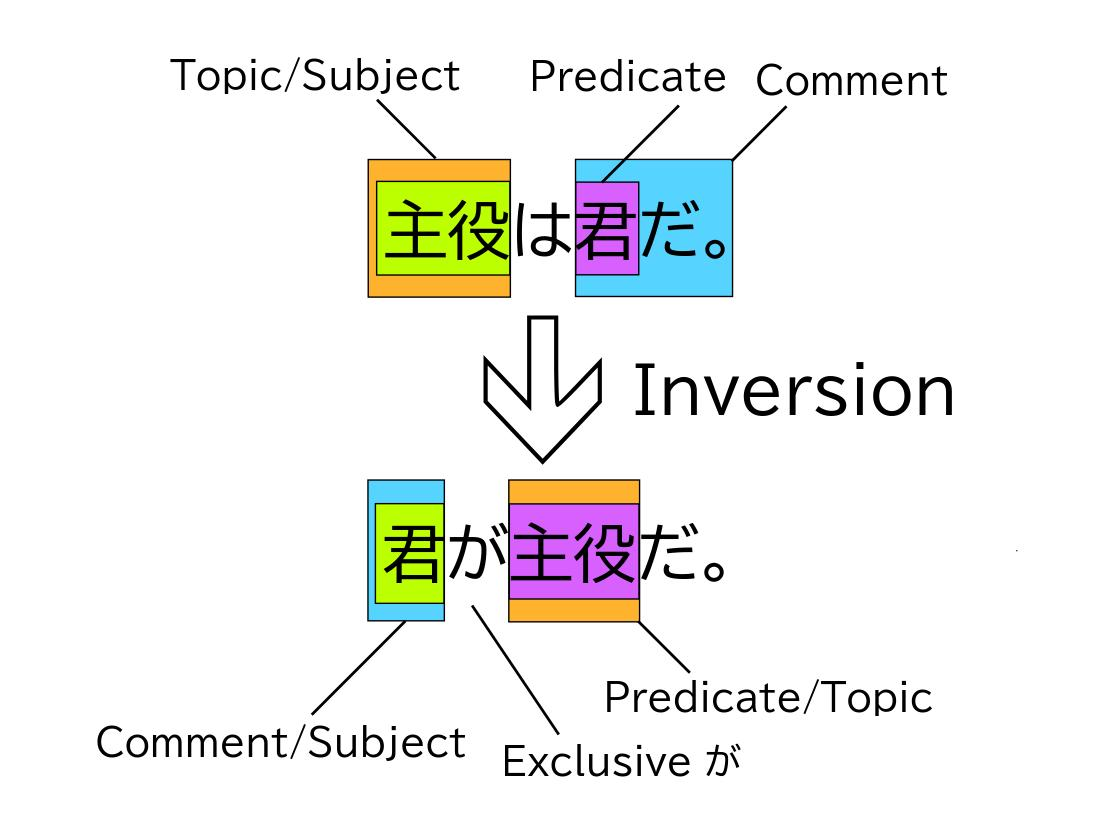
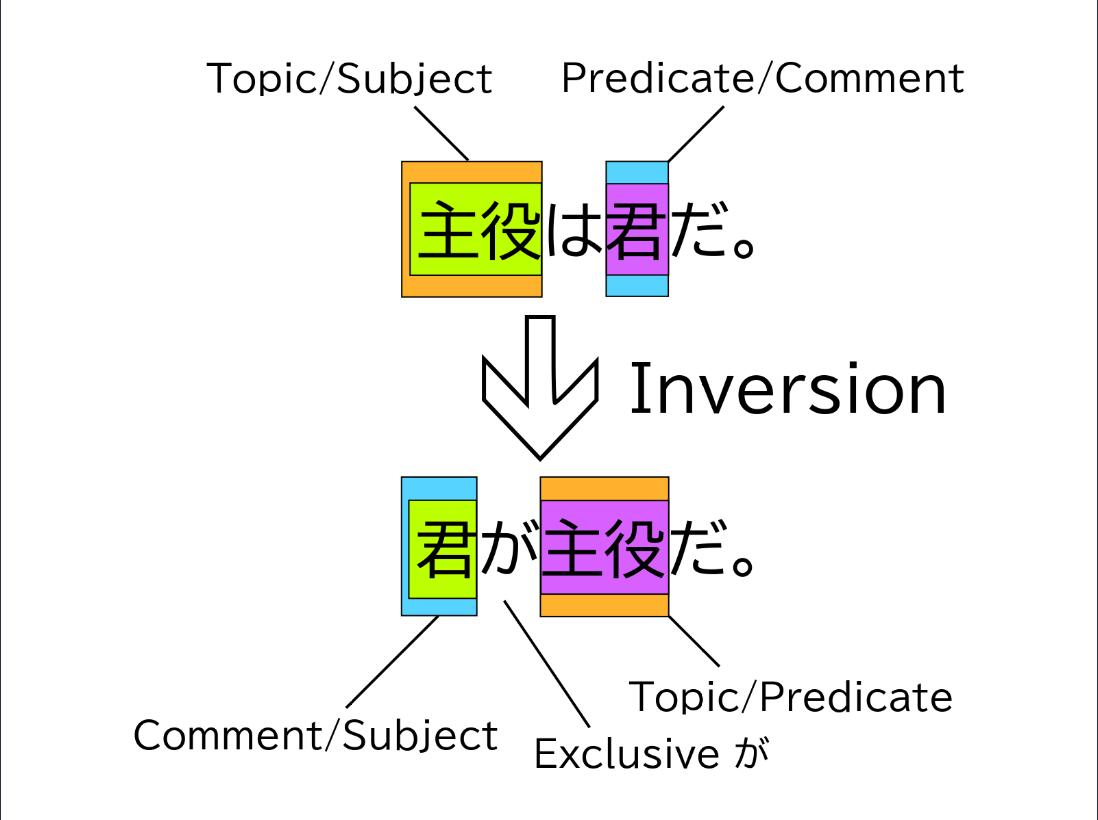
finished ppos

Changed region(s): [[0.0619, 0.061, 0.898, 0.9451]]

diff --git a/_sass/_base.scss b/_sass/_base.scss
@@ -60,6 +60,27 @@ sup {
    text-decoration: none !important;
 }
 
+/*
+
+ruby {
+  position: relative; 
+  font-size: 1em; 
+}
+
+rt {
+  font-size: 0.6em; 
+  position: absolute;
+  top: -1.2em; 
+  left: 50%; 
+  transform: translateX(-50%); 
+}
+
+rp {
+  font-size: 0; 
+}
+
+*/
+
 ul {
   padding-left: 0.5em;
 }

diff --git a/_posts/2024-07-20-wa-vs-ga-1.md b/_posts/2024-07-20-wa-vs-ga-1.md
@@ -126,7 +126,7 @@ Something else worth pointing out is that exclusive が can't mark objects, but 
 
 # は Structures
 
-## <a name="chichi" style="text-decoration: none;">The 「父はこの本を買ってくれた。」 Structure
+## <a name="chichi" style="text-decoration: none;">The「父はこの本を買ってくれた。」Structure
 
 The first structure we'll be learning about is the simplest of all the は structures. It's what we get when we topicalize a **case-marked word**.
 
@@ -134,20 +134,20 @@ The following diagram shows the topicalization of the subject 父 in the clause 
 
 ![Diagram showing topicalization of 父 in the clause 父がこの本を買ってくれた(こと)](assets/img/chichi1.jpg)
 
-(The こと is here to represent that this is not being interpreted as a complete sentence, but a clause.)
+The こと is here to represent that this part isn't being interpreted as a complete sentence, but as a precursor to the sentence.
 
 Remember that は can also mark objects, which are generally marked by を. The object is topicalized, and は replaces を. Then the topic is moved to the beginning of the sentence. Just like the subject, the object doesn't stop being an object when it's topicalized. The following diagram shows the topicalization of the object この本 in the clause 「父がこの本を買ってくれた(こと)」. This leads to the sentence 「この本は父が買ってくれた。」
 
 ![Diagram showing topicalization of この本 in the clause 父がこの本を買ってくれた(こと)](assets/img/chichi2.jpg)
 
 
-## <a name="zou" style="text-decoration: none;">The 「象は鼻が長い。」 Structure
+## <a name="zou" style="text-decoration: none;">The「象は鼻が長い。」Structure
 
-「象は鼻が長い。」 is a famous sentence in discussions of Japanese grammar because of linguist Akira Mikami. In 1960, Mikami published 『象ハ鼻ガ長イナア！』, in which he argued that this sentence has no subject and advocated for the dismissal of the idea of "subject" in Japanese. We'll subscribe to Mikami's interpretation of the sentence but keep the idea of the subject intact.
+The sentence「象は鼻が長い。」is famous in discussions of Japanese grammar because of linguist Akira Mikami. In 1960, Mikami published『象ハ鼻ガ長イナア！』, in which he argued that this sentence has no subject and advocated for the dismissal of the idea of "subject" in Japanese. We'll subscribe to Mikami's interpretation of the sentence but keep the idea of the subject intact.
 
-According to Mikami's view, 「象は鼻が長い。」 is a sentence formed from the clause 「象の鼻が長い(こと)」 by topicalizing the modifier 象の. **Modifier** (修飾語) is a generic term for anything that modifies the meaning of something in the sentence. It can be an い-adjective, a な-adjective or something marked by 「～の」.[^2]  But in this structure, the modifier will always be a `noun` + `の`. 
+According to Mikami's view,「象は鼻が長い。」is a sentence formed from the precursor「象の鼻が長い(こと)」by topicalizing the modifier 象の. **Modifier** (修飾語) is a generic term for anything that modifies the meaning of something in the sentence. It can be an い-adjective, a な-adjective or something marked by「～の」.[^2]  But in this structure, the modifier will always be a `noun` + `の`. 
 
-Thus, the 「象は鼻が長い。」 structure is just another way of topicalizing a portion of existing sentences/clauses. The noun being topicalized in this structure is **the modifier of a case-marked word**.
+Thus, the「象は鼻が長い。」structure is just another way of topicalizing a portion of existing sentences/clauses. The noun being topicalized in this structure is **the modifier of a case-marked word**.
 
 [^2]: There are other types of modifiers in Japanese, but I believe these are the only types that fit in our structures.
 
@@ -155,27 +155,25 @@ Thus, the 「象は鼻が長い。」 structure is just another way of topicaliz
 
 Notice that the が in this structure is not exclusive が. We are simply stating that elephants "have long trunks," not specifying what part of elephants is long.
 
-// Another important thing to note about the 「象は鼻が長い。」 structure is that it's very common for the predicate to express a **state** or **quality** of the topic instead of an **action**.
+Another important thing to note about the「象は鼻が長い。」structure is that it's very common for the comment to express a **state** or **quality** of the topic instead of an **action**.
 
-Sentences that derive from topicalization of the modifier「～の」 in 「～の～を...」 can also be grouped into the 「象は鼻が長い。」 structure. These sentences take predicates that express actions often.
+Sentences that derive from topicalization of the modifier「～の」in「～の～を...」can also be grouped into the「象は鼻が長い。」structure. These sentences take comments that express actions often.
 
-## <a name="kaki" style="text-decoration: none;">The 「かき料理は広島が本場だ。」 Structure
+## <a name="kaki" style="text-decoration: none;">The「かき料理は広島が本場だ。」Structure
 
-At first glance, this sentence seems to fit into the 「象は鼻が長い。」 structure we just saw because of the 「～は～が...」 pattern. However, we can't work backwards to find the untopicalized clause by just replacing 「～は～が...」 with 「～の～が...」 like we did with「象は鼻が長い。」 
+At first glance, this sentence seems to fit into the 「象は鼻が長い。」 structure we just saw because of the「～は～が...」pattern. However, we can't work backwards to find the untopicalized clause by just replacing「～は～が...」with「～の～が...」like we did with「象は鼻が長い。」
 
 If we try anyway, we get <span style="color: #ff0040">「かき料理の広島が本場(であること)」</span>, which makes no sense.
 
-「かき料理は広島が本場だ。」 is actually derived from <span style="color: #a5fc67">「広島がかき料理の本場(であること)」</span>. In this structure, the noun being topicalized is the **modifier of the predicate**. [^3] The predicate of this structure will always be a noun.
+「かき料理は広島が本場だ。」is actually derived from <span style="color: #a5fc67">「広島がかき料理の本場(であること)」</span>. In this structure, the noun being topicalized is the **modifier of the predicate**. [^3] The predicate of this structure will always be a noun.
 
 ![Diagram showing topicalization of かき料理 in the clause 広島がかき料理の本場(であること)](assets/img/kaki.jpg)
 
-[^3]: I debated labeling the topic in this chart and the next one as "topic" instead of "topic/subject". Although it is technically possible to construe the topic in this structure as a subject, in practice this is irrelevant. In the model of generative grammar that Noda accepts, 「かき料理は広島が本場だ。」 passes through the stage 「かき料理が広島が本場(であること)」, and 「辞書は新しいのがいい。」 passes through the stage 「辞書が新しいのがいい(こと)」, but Noda says that these are highly unstable stages compared to the double subject stages in the other structures. They are awkward and you probably won't see them often.
+[^3]: I debated labeling the topic in this chart and the next one as "topic" instead of "topic/subject". Although it is technically possible to construe the topic in this structure as a subject, in practice this is irrelevant. In the model of generative grammar that Noda accepts,「かき料理は広島が本場だ。」passes through the stage「かき料理が広島が本場(であること)」, and「辞書は新しいのがいい。」passes through the stage「辞書が新しいのがいい(こと)」, but Noda says that these are highly unstable stages compared to the double subject stages in the other structures. They are awkward and you probably won't see them often.
 
 The が in this structure is exclusive が. This is a major difference between this structure and the 「象は鼻が長い。」 structure. We're specifying that it's Hiroshima, not any other place like Sendai or Hamamatsu, that's famous for its oyster dishes. 
 
-Because of this, it's possible to invert the sentence 「かき料理は広島が本場だ。」 into 「かき料理の本場は広島だ。」, but inverting the sentence 「象は鼻が長い。」into ×「象が長いのは鼻だ。」 is awkward. See [Specification vs. Supposition](#spec-sup) for clarification on why this happens. 「象は鼻が長い。」is a specification sentence, and 「かき料理は広島が本場だ。」is a supposition sentence.
-
-## <a name="jisho" style="text-decoration: none;">The 「辞書は新しいのがいい。」 Structure
+## <a name="jisho" style="text-decoration: none;">The「辞書は新しいのがいい。」Structure
 
 Here's another structure that fits into the 「～は～が...」 pattern. In the sentence 「辞書は新しいのがいい。」, the modifier is 新しい, and the noun that was topicalized is 辞書. To derive this sentence from its original clause, we topicalize its **subject**, and the modifier of the subject becomes the subject in the new comment.
 
@@ -189,7 +187,7 @@ The parallel-type sentence of this structure, on the other hand, doesn't use exc
 
 > 全国製麺連が調べた一人当り麺類消費量の全国平均は、うどんが年間1.9キロ、ラーメン類が2.8キロ、そばが0.6キロ。
 
-## <a name="hana" style="text-decoration: none;">The 「花が咲くのは7月ごろだ。」 Structure
+## <a name="hana" style="text-decoration: none;">The「花が咲くのは7月ごろだ。」Structure
 
 What sets this structure apart from all the other ones we've seen so far is that the topic in this one is a **clause**. 
 
@@ -199,9 +197,9 @@ The function of this sentence is that the predicate (7月ごろ) is emphasized. 
 
 The "Related to the Clause" part of the chart is usually some kind of word/phrase that expresses the reason or time for whatever is in the clause. It can also be a subject marked by が.
 
-Notice that because we can't put は directly after 花が咲く, we have to nominalize the clause first with の. This also happened with the sentence 「辞書は新しいのがいい。」. Common nominalizers include の, もの, 人, and ところ.
+Notice that because we can't put は directly after 花が咲く, we have to nominalize the clause first with の. This also happens with the sentence 「辞書は新しいのがいい。」. Common nominalizers include の, もの, 人, and ところ.
 
-## <a name="nioi" style="text-decoration: none;">The 「このにおいはガスが漏れてるよ。」 Structure
+## <a name="nioi" style="text-decoration: none;">The「このにおいはガスが漏れてるよ。」Structure
 
 This structure is the rarest one of all we've seen so far. In fact, some linguists consider it ungrammatical. But as you will see later, these sentences have legitimate functions. We can't construct a topicalization chart for this one, so instead, here's a primer on the three major types of this structure you will encounter.
 
@@ -209,13 +207,13 @@ This structure is the rarest one of all we've seen so far. In fact, some linguis
 
 Sometimes, we cannot reduce a sentence to its basic case marker structure because some portion of the sentence has been repeated before and after は, making it redundant. An example of this is:
 
-> 500円硬貨の両替は、左側5番の機械で両替してください。
+> 500円硬貨の両替は、左側5番の機械で両替してください。<br>*To exchange 500 yen coins, please exchange them at machine number 5 to your left.*
 
 The redundant portion of this sentence is 両替. This sentence is an overlapping of the two following sentences:
 
-> 500円硬貨の両替は、左側5番の機械でしてください。
+> 500円硬貨の両替は、左側5番の機械でしてください。<br>*To exchange 500 yen coins, please refer to machine number 5 to your left.*
 
-> 500円硬貨は、左側5番の機械で両替してください。
+> 500円硬貨は、左側5番の機械で両替してください。<br>*As for 500 yen coins, please exchange them at machine number 5 to your left.*
 
 By repeating the redundant portion, we can tell that the speaker may have been trying to make their message clearer.
 
@@ -223,11 +221,11 @@ By repeating the redundant portion, we can tell that the speaker may have been t
 
 Another reason we might not be able to reduce a sentence is because some portion of the sentence has been left out.
 
-> いまのうちの会社のいいところは、雰囲気が自由なんですね。
+> いまのうちの会社のいいところは、雰囲気が自由なんですね。<br>*What's great about our company is it's easygoing.*
 
 This sentence would be typical if we instead structured it like so:
 
-> いまのうちの会社のいいところは、雰囲気が自由なことなんですね。
+> いまのうちの会社のいいところは、雰囲気が自由なことなんですね。<br>*What's great about our company is that it's easygoing.*
 
 This type of sentence occurs often in spoken Japanese. 
 
@@ -235,13 +233,13 @@ This type of sentence occurs often in spoken Japanese.
 
 Sentences with a predicate that don't semantically serve as an exact explanation of the topic fall into this category.
 
-> 作り方は、材料を弱火で1時間ほど煮込みます。
+> 作り方は、材料を弱火で1時間ほど煮込みます。<br>*As for its recipe, simmer the ingredients on low heat for one hour.*
 
 The topic, 作り方, only serves as a rough "headline" for the entire sentence that follows it. It does not function as a subject in any capacity.
 
 # が Structures
 
-## <a name="fuji" style="text-decoration: none;">The 「富士山が見えるよ。」 Structure: Topicless Sentences
+## <a name="fuji" style="text-decoration: none;">The「富士山が見えるよ。」Structure: Topicless Sentences
 
 The 「富士山が見えるよ。」 structure is the only one we'll introduce that does not feature any sort of topic at all in its basic structure. Naturally, all sentences you'll see here will have **subject-marking が**.
 
@@ -253,31 +251,23 @@ There are three broad categories that sentences of this structure fall under.
 
 A sentence fits into this category when it describes something that the speaker can directly see or percieve. These sentences appear often in spoken Japanese.
 
-> 何か音が聞こえるわ。耳を澄ませて!
-
-> *I hear something. Listen closely!* - (村上春樹 『世界の終りとハードボイルド・ワンダーランド』 p.332)
+> 何か音が聞こえるわ。耳を澄ませて!<br>*I hear something. Listen closely!* - (村上春樹 『世界の終りとハードボイルド・ワンダーランド』 p.332)
 
 Sentences that describe perceptible events that will happen very soon also fall into this category.
 
-> いいか...今...血管がふさがる
-
-> *Listen... his veins will constrict soon...* - (新井素子 『...絶句(上)」』p.407)
+> いいか...今...血管がふさがる<br>*Listen... his veins will constrict soon...* - (新井素子 『...絶句(上)」』p.407)
 
 ### Descriptions of Events
 
 A sentence fits into this category when it describes an event that the speaker cannot directly see or percieve. This may be something that happened in the past or something that is happening right now the speaker can't percieve. These sentences appear often in written Japanese.
 
-> きのう合格発表があった。
-
-> *The exam results were announced yesterday.*
+> きのう合格発表があった。<br>*The exam results were announced yesterday.*
 
 ### Descriptions of Consequences
 
 A sentence fits into this category when it describes something that will happen if some other condition is fulfilled.
 
-> ボタンを押すと、音が出る。
-
-> *A sound will play when you press the button.*
+> ボタンを押すと、音が出る。<br>*A sound will play when you press the button.*
 
 ### Here's The Twist...
 
@@ -285,15 +275,17 @@ There is a caveat to this categorization system. **Just because a sentence fits 
 
 For instructions on when to use the topic, refer to [Does the Clause Have a Topic?](#potpres).
 
-## <a name="kimi" style="text-decoration: none;">The 「君が主役だ。」 Structure: Unmarked Topic and Exclusive が
+## <a name="kimi" style="text-decoration: none;">The「君が主役だ。」Structure: Inversion and Exclusive が
 
-The sentence 「君が主役だ。」has no topic-marking は, but it'd be inaccurate to say that it has no topic. The topic here is actually the predicate, 主役. This is what we call an **unmarked topic**. This property of the sentence comes from the fact that it uses **exclusive が**, a different form of が from the subject-marking が we saw in the 「富士山が見えるよ。」 structure. This sentence has the simplest possible structure for any sentence that uses exclusive が.
+The sentence 「君が主役だ。」has no topic-marking は, but it'd be inaccurate to say that it has no topic. The topic here is actually the predicate, 主役. This is what we call an **inverted sentence**. This property of the sentence comes from the fact that it uses **exclusive が**, a different form of が from the subject-marking が we saw in the 「富士山が見えるよ。」 structure. This sentence has the simplest possible structure for any sentence that uses exclusive が.
 
-Remember that exclusive が functions as a way of **emphasizing** something. With this usage of が, the thing that exclusive が marks is singled out from a set of other things. 
+![Diagram showing topicalization of 主役 in 君が主役(であること)](assets/img/kimitop.jpg)
 
-One way of interpreting the sentence 「君が主役だ。」 is to think of it as coming from the sentence 「主役は君だ。」 This process of reversing the order of the subject and the predicate is known as **inversion**. 
+Remember that exclusive が functions as a way of **emphasizing** something. With this usage of が, whatever exclusive が marks is singled out from a set of other things. 
 
-![Diagram showing inversion of 「主役は君だ。」](assets/img/kimi.jpg)
+One way of interpreting the sentence 「君が主役だ。」 is to think of it as coming from the sentence 「主役は君だ。」 This process of reversing the order of the topic and the comment is known as **inversion**. 
+
+![Diagram showing inversion of 主役は君だ。](assets/img/kimi.jpg)
 
 A typical topic sentence takes the structure of 
 
@@ -302,6 +294,8 @@ A typical topic sentence takes the structure of
 whereas the inversion of this topic sentence will take on the structure
 
 > `Comment` + `Exclusive が` + `Topic`
+
+You'll learn more about inverted sentences in [When to Use Inverted Sentences](wa-vs-ga-2/#specsup)
 
 
 <h1 style="text-align:right;">
